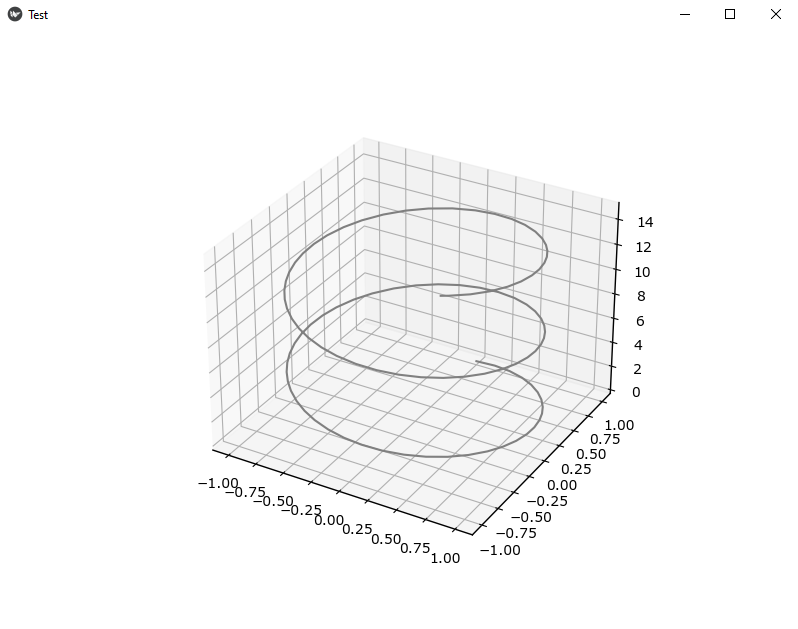
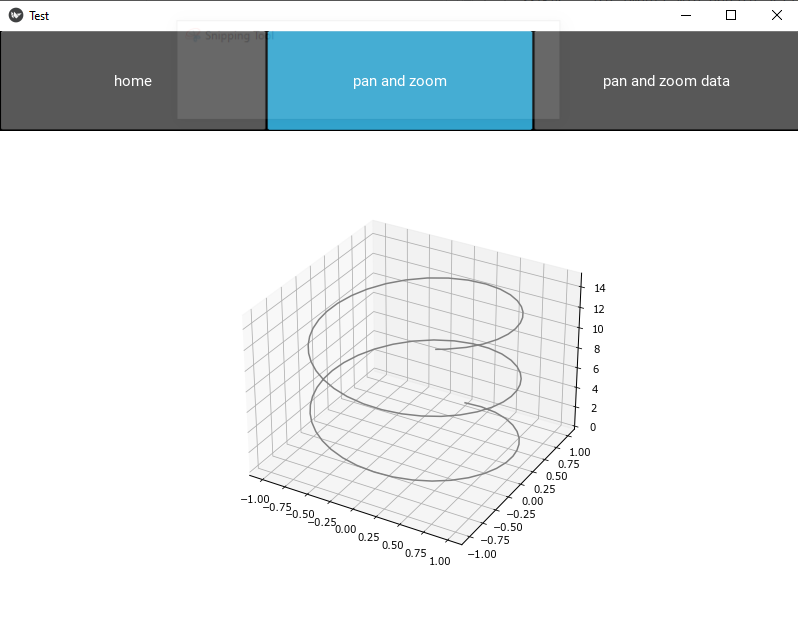
Deployed 483aa45 with MkDocs version: 1.6.1

Changed region(s): [[0.2707, 0.2417, 0.812, 0.9062], [0.0, 0.0, 1.0, 0.2114]]

diff --git a/Widgets/navigation-bar-widget/index.html b/Widgets/navigation-bar-widget/index.html
@@ -468,6 +468,15 @@
 </li>
       
         <li class="md-nav__item">
+  <a href="#3d-graph-usage" class="md-nav__link">
+    <span class="md-ellipsis">
+      3D graph usage
+    </span>
+  </a>
+  
+</li>
+      
+        <li class="md-nav__item">
   <a href="#examples-using-this-widget" class="md-nav__link">
     <span class="md-ellipsis">
       Examples using this widget
@@ -1264,6 +1273,15 @@
 </li>
       
         <li class="md-nav__item">
+  <a href="#3d-graph-usage" class="md-nav__link">
+    <span class="md-ellipsis">
+      3D graph usage
+    </span>
+  </a>
+  
+</li>
+      
+        <li class="md-nav__item">
   <a href="#examples-using-this-widget" class="md-nav__link">
     <span class="md-ellipsis">
       Examples using this widget
@@ -1295,12 +1313,12 @@
 <p>KivyMatplotNavToolbar is a kivy navigation bar. All the option avalaible used the icons on NavigationIcons.ttf font.</p>
 <div class="admonition note">
 <p class="admonition-title">Note</p>
-<p>This widget a figure object to be functional. figure_wgt property need a matplotlib figure object.</p>
+<p>This widget need a figure object to be functional. figure_wgt property need a matplotlib figure object.</p>
 </div>
 <p><img alt="intro" src="../../assets/intro.PNG" /></p>
 <h2 id="some-useful-kivy-properties">Some useful kivy properties</h2>
 <ul>
-<li>nav_icon (str) : navigation icon used (option: 'normal','minimal','all', 'custom'. Default: 'normal')</li>
+<li>nav_icon (str) : navigation icon used (option: 'normal','minimal','all', '3D', 'custom'. Default: 'normal')</li>
 <li>hover_mode (str) : type of hover mode (option: 'desktop','touch'. Default: 'touch')</li>
 <li>show_cursor_data (bool) : show cursor coordinate (default False). Useful when 'desktop mode' is set.</li>
 <li>orientation_type (str) : navigation bar orientation (option: 'actionbar','rail'. Default: 'actionbar')</li>
@@ -1314,6 +1332,20 @@
 <a id="__codelineno-0-6" name="__codelineno-0-6" href="#__codelineno-0-6"></a>
 <a id="__codelineno-0-7" name="__codelineno-0-7" href="#__codelineno-0-7"></a>MatplotFigureSubplot:
 <a id="__codelineno-0-8" name="__codelineno-0-8" href="#__codelineno-0-8"></a>    id:figure_wgt
+</code></pre></div></p>
+<h2 id="3d-graph-usage">3D graph usage</h2>
+<p>For 3D graph use nav_icon = '3D' properties.</p>
+<div class="admonition note">
+<p class="admonition-title">Note</p>
+<p>For 3D graph, you need to set figure_wgt_layout property to be functional. hover_mode and show_cursor_data doesn't work for 3D graph</p>
+</div>
+<p>How to use in Kv language :
+<div class="highlight"><pre><span></span><code><a id="__codelineno-1-1" name="__codelineno-1-1" href="#__codelineno-1-1"></a>KivyMatplotNavToolbar:
+<a id="__codelineno-1-2" name="__codelineno-1-2" href="#__codelineno-1-2"></a>    nav_icon:&#39;3D&#39;
+<a id="__codelineno-1-3" name="__codelineno-1-3" href="#__codelineno-1-3"></a>    figure_wgt_layout:figure_wgt_layout
+<a id="__codelineno-1-4" name="__codelineno-1-4" href="#__codelineno-1-4"></a>
+<a id="__codelineno-1-5" name="__codelineno-1-5" href="#__codelineno-1-5"></a>MatplotFigure3DLayout:
+<a id="__codelineno-1-6" name="__codelineno-1-6" href="#__codelineno-1-6"></a>    id:figure_wgt_layout
 </code></pre></div></p>
 <h2 id="examples-using-this-widget">Examples using this widget</h2>
 <ul>

diff --git a/Widgets/graph-widget-3D/index.html b/Widgets/graph-widget-3D/index.html
@@ -98,7 +98,7 @@
     <div data-md-component="skip">
       
         
-        <a href="#examples-using-this-widget" class="md-skip">
+        <a href="#matplotfigure3dlayout" class="md-skip">
           Skip to content
         </a>
       
@@ -436,6 +436,15 @@
       Table of contents
     </label>
     <ul class="md-nav__list" data-md-component="toc" data-md-scrollfix>
+      
+        <li class="md-nav__item">
+  <a href="#matplotfigure3dlayout" class="md-nav__link">
+    <span class="md-ellipsis">
+      MatplotFigure3DLayout
+    </span>
+  </a>
+  
+</li>
       
         <li class="md-nav__item">
   <a href="#examples-using-this-widget" class="md-nav__link">
@@ -1246,6 +1255,15 @@
     <ul class="md-nav__list" data-md-component="toc" data-md-scrollfix>
       
         <li class="md-nav__item">
+  <a href="#matplotfigure3dlayout" class="md-nav__link">
+    <span class="md-ellipsis">
+      MatplotFigure3DLayout
+    </span>
+  </a>
+  
+</li>
+      
+        <li class="md-nav__item">
   <a href="#examples-using-this-widget" class="md-nav__link">
     <span class="md-ellipsis">
       Examples using this widget
@@ -1275,11 +1293,11 @@
   <h1>MatplotFigure3D</h1>
 
 <p>MatplotFigure3D is to handle 3D matplotlib figure. </p>
-<div class="admonition note">
-<p class="admonition-title">Note</p>
-<p>For the moment, it's not possible to zoom the figure but you can rotate the figure.</p>
-</div>
 <p><img alt="3D example" src="../../assets/example_3D.PNG" /></p>
+<h2 id="matplotfigure3dlayout">MatplotFigure3DLayout</h2>
+<p>MatplotFigure3DLayout is Boxlayout that handle cursor, figure pan and figure zoom interaction.
+See main_advanced.py in example_3D folder.</p>
+<p><img alt="3D example2" src="../../assets/example_3D2.PNG" /></p>
 <h2 id="examples-using-this-widget">Examples using this widget</h2>
 <ul>
 <li>example_3D</li>
